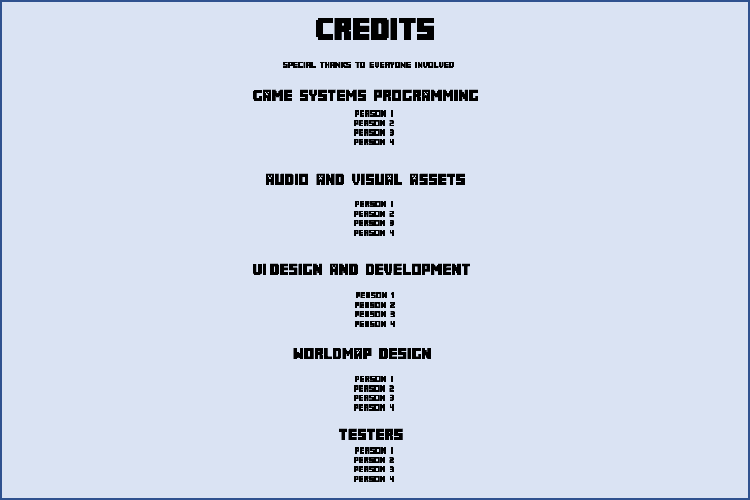
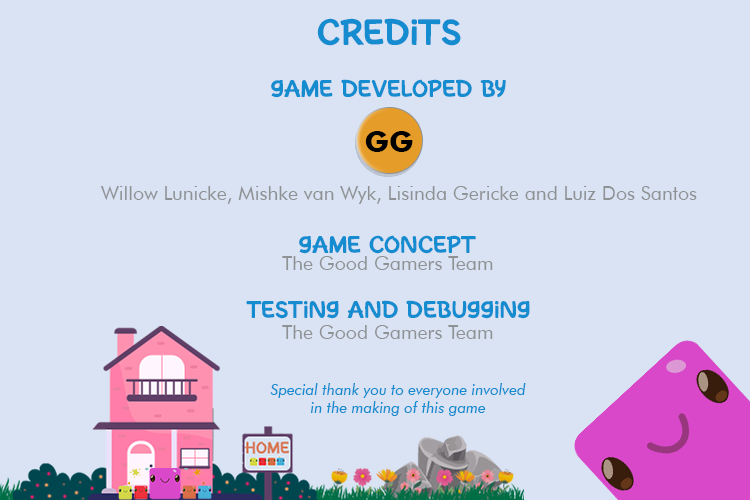
update Retrymenu, creditsmenu. Pausing game if Esc is pressed in-game

Changed region(s): [[0.0, 0.0, 1.0, 1.0], [0.1227, 0.12, 0.92, 0.72]]

diff --git a/WIPfixdrawplayer/WIPfixdrawplayer/Wip/HappyAdventures/src/HappyAdventuresGame.java b/WIPfixdrawplayer/WIPfixdrawplayer/Wip/HappyAdventures/src/HappyAdventuresGame.java
@@ -963,15 +963,27 @@ public class HappyAdventuresGame extends GameEngine implements ActionListener {
             if (showHitboxes) showHitboxes = false;
             else showHitboxes = true;
         }
-        if (event.getKeyCode() == KeyEvent.VK_ESCAPE) {
-            if (gameStates == "PlayGame") {
-                if (menuObj.PauseMenuPanel.isVisible()) {
+        if (event.getKeyCode() == KeyEvent.VK_ESCAPE)
+        {
+            if (gameStates == "PlayGame")
+            {
+                if (menuObj.PauseMenuPanel.isVisible())
+                {
+                    unPauseGame();
                     menuObj.PauseMenuPanel.setVisible(false);
                     menuObj.PAbuttonPanel.setVisible(false);
-                } else {
+                } else
+                {
+                    pauseGame();
                     menuObj.PauseMenuPanel.setVisible(true);
                     menuObj.PAbuttonPanel.setVisible(true);
                 }
+            }
+            if (menuObj.CreditsMenuPanel.isVisible())
+            {
+                menuObj.CreditsMenuPanel.setVisible(false);
+                menuObj.MainMenuPanel.setVisible(true);
+                menuObj.MMbuttonPanel.setVisible(true);
             }
         }
         if (event.getKeyCode() == KeyEvent.VK_ENTER) {
@@ -986,6 +998,12 @@ public class HappyAdventuresGame extends GameEngine implements ActionListener {
                 unPauseGame();
                 menuObj.SuperSweetTutorialMenuPanel.setVisible(false);
                 superSweetsEaten = 2;
+            }
+            if(menuObj.CreditsMenuPanel.isVisible())
+            {
+                menuObj.CreditsMenuPanel.setVisible(false);
+                menuObj.MainMenuPanel.setVisible(true);
+                menuObj.MMbuttonPanel.setVisible(true);
             }
         }
     }
@@ -1300,7 +1318,7 @@ public class HappyAdventuresGame extends GameEngine implements ActionListener {
                 if (distance(happyObj.hitBox.getMinX(), happyObj.hitBox.getMinY(), block.getPosX(), block.getPosY())<29)
                 {
                     if (block instanceof FriendClass myfriend){
-                        if(!myfriend.getFollow())
+                        if(!myfriend.getFollow() && !myfriend.getSaved())
                         {
                             playAudio(audioObj.friendly);
                         }

diff --git a/WIPfixdrawplayer/WIPfixdrawplayer/Wip/HappyAdventures/src/GUIClass.java b/WIPfixdrawplayer/WIPfixdrawplayer/Wip/HappyAdventures/src/GUIClass.java
@@ -267,7 +267,7 @@ public class GUIClass
         //Set the settings for each menu panel - Retry Menu
         RetryMenuPanel.setBackground(new Color(0, 0, 0, 0)); // set background color to transparent
         RetryMenuPanel.setOpaque(false); // make the panel transparent
-        RetryMenuPanel.setBounds((game.width() - menuWidth) / 2, (game.height() - menuHeight) /2, menuWidth, menuHeight);
+        RetryMenuPanel.setBounds(0, 0, game.frameWidth, game.frameHeight);
         RTbuttonPanel.setOpaque(false);
         RTbuttonPanel.setLayout(new BoxLayout(RTbuttonPanel, BoxLayout.PAGE_AXIS)); // set layout to place buttons in a column
 
